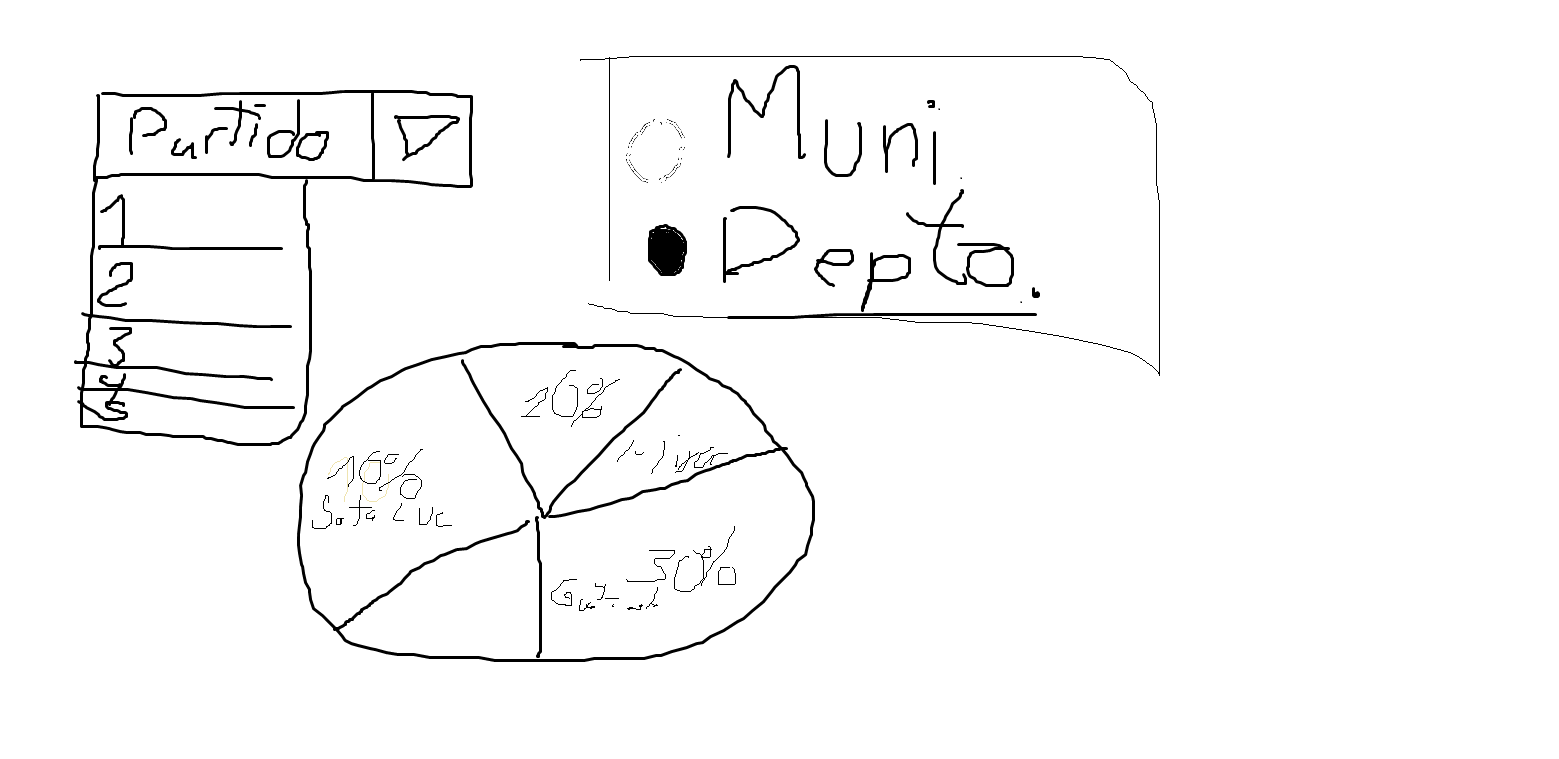
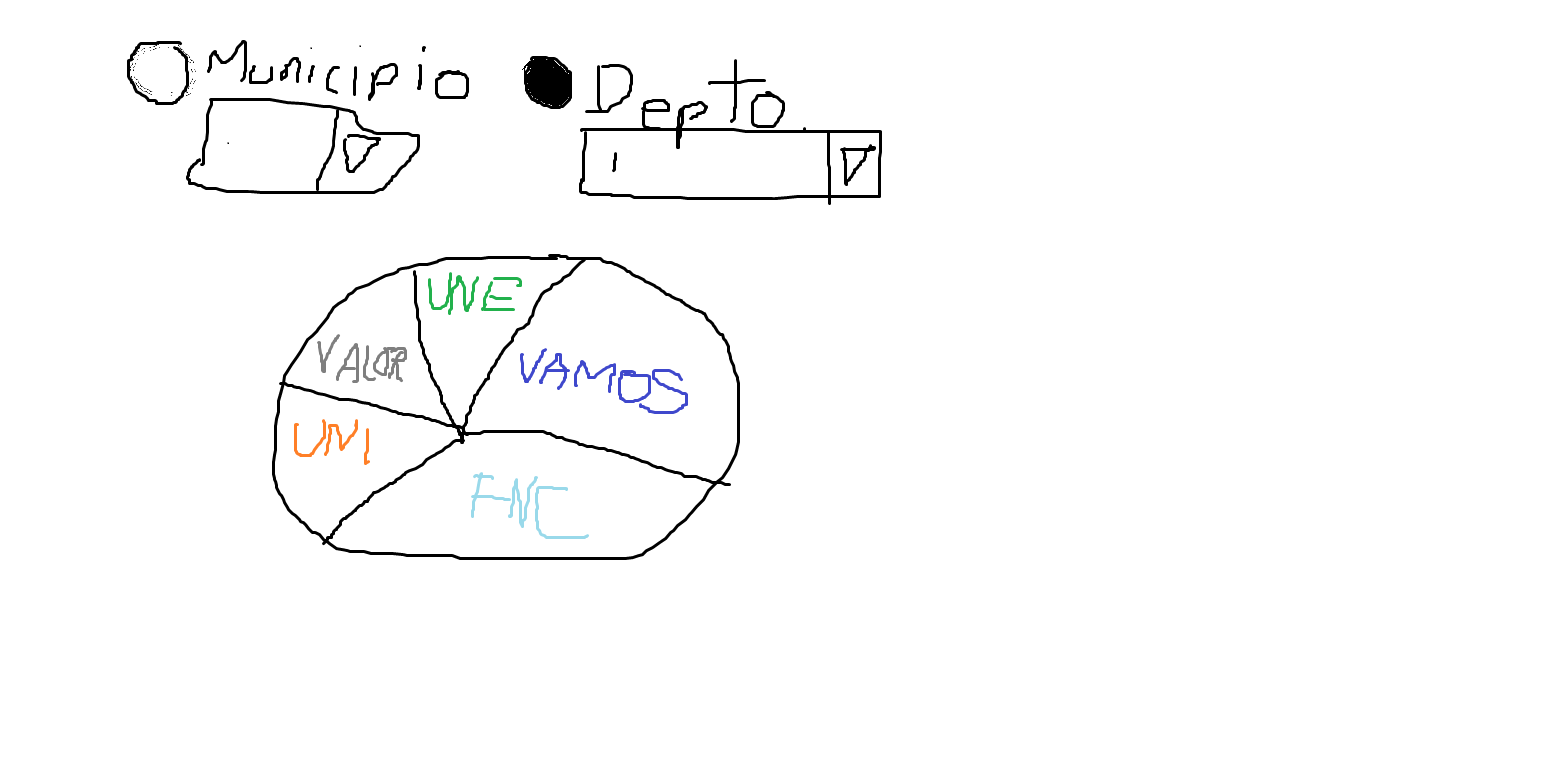
Cambios pie chart

diff --git a/proyecto/frontend/src/components/PieChart.jsx b/proyecto/frontend/src/components/PieChart.jsx
@@ -1,5 +1,6 @@
 import React from "react";
 import { Pie } from "react-chartjs-2";
+import ChartDataLabels from 'chartjs-plugin-datalabels';
 
 function PieChart({ chartData }) {
   return (
@@ -7,12 +8,24 @@ function PieChart({ chartData }) {
       <h2 style={{ textAlign: "center" }}>Pie Chart</h2>
       <Pie
         data={chartData}
+        plugins={[ChartDataLabels]}
         options={{
+          cutoutPercentage: 20,
+          title: {
+            display: true,
+            text: "Porcentaje de Votos"
+          },
           plugins: {
-            title: {
-              display: true,
-              text: "Users Gained between 2016-2020"
-            }
+            datalabels: {
+              color: '#ffffff',
+              font: {
+                size: 18,
+                weight: 'bold',
+              },
+              formatter: function(value, context) {
+                return context.chart.data.labels[context.dataIndex] + '\n' + value + "%";
+              },
+            },
           }
         }}
       />

diff --git a/proyecto/frontend/src/Data.jsx b/proyecto/frontend/src/Data.jsx
@@ -1,32 +1,22 @@
-export const Data = [
-    {
-      id: 1,
-      year: 2016,
-      userGain: 80000,
-      userLost: 823
-    },
-    {
-      id: 2,
-      year: 2017,
-      userGain: 45677,
-      userLost: 345
-    },
-    {
-      id: 3,
-      year: 2018,
-      userGain: 78888,
-      userLost: 555
-    },
-    {
-      id: 4,
-      year: 2019,
-      userGain: 90000,
-      userLost: 4555
-    },
-    {
-      id: 5,
-      year: 2020,
-      userGain: 4300,
-      userLost: 234
-    }
-  ];
+export const Data = [ 
+  { 
+      "partido": "UNE", 
+      "porcentaje": "20"
+  }, 
+  { 
+      "partido": "VAMOS", 
+      "porcentaje": "20"
+  }, 
+  { 
+      "partido": "FNC", 
+      "porcentaje": "10"
+  }, 
+  { 
+      "partido": "UNIONISTA", 
+      "porcentaje": "20"
+  }, 
+  { 
+      "partido": "VALOR", 
+      "porcentaje": "20"
+  }
+];
